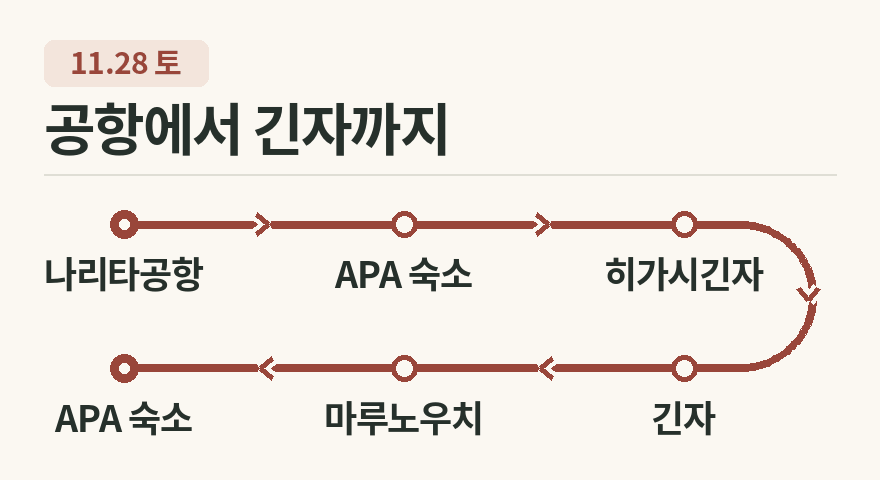
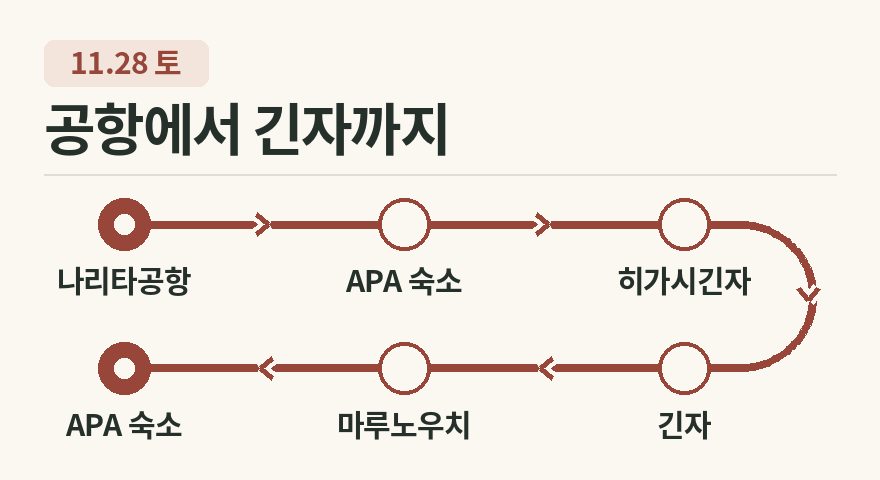
Match reference proportions for route nodes and labels

diff --git a/index.html b/index.html
@@ -45,5 +45,5 @@
 <section id="sources" class="section"><div class="sectionhead"><div><span class="sectionindex">Source notes / Updated 2026.11.06</span><h2>가격의 기준과 공식 안내</h2></div><p>운임은 현재 공지·경로 검색의 참고금액.<br>출발일의 시간표·예약 화면에서 최종 확인하세요.</p></div><div class="sources" id="sourceslist"></div></section>
 </main><footer class="wrap"><span class="wordmark">our days<em>.</em></span><span>첫 번째 기념일을 위한 도쿄 노트 · 2026<br>계획용 일정 / 예약·결제 기능 없음</span><a href="#">맨 위로 ↑</a></footer>
 <div class="toast" id="toast" role="status" hidden></div>
-<script src="data.js"></script><script src="app.js?v=routes-5"></script>
+<script src="data.js"></script><script src="app.js?v=routes-6"></script>
 </body></html>

diff --git a/app.js b/app.js
@@ -45,7 +45,7 @@
   "APA → 아사쿠사선으로 아사쿠사 → 도보로 고토부키의 nobori와 구라마에의 proto → 아사쿠사선으로 APA에 돌아와 짐 찾기 → 공항철도로 나리타 제3터미널. 16:30 도착 목표."
 ];
  function routeMap(d) {
-  const file = `route-maps/day-${String(d.id + 1).padStart(2, '0')}.png?v=5`;
+  const file = `route-maps/day-${String(d.id + 1).padStart(2, '0')}.png?v=6`;
   return `<figure class="route-map">
    <img src="${file}" width="880" height="480" alt="${esc(routeMapDescriptions[d.id])}" loading="lazy" decoding="async">
    <figcaption><span>이동 순서도 · 축척 없음</span><a href="${file}" target="_blank" rel="noopener noreferrer" aria-label="${d.date} 이동 지도 크게 보기">지도 크게 보기</a></figcaption>
